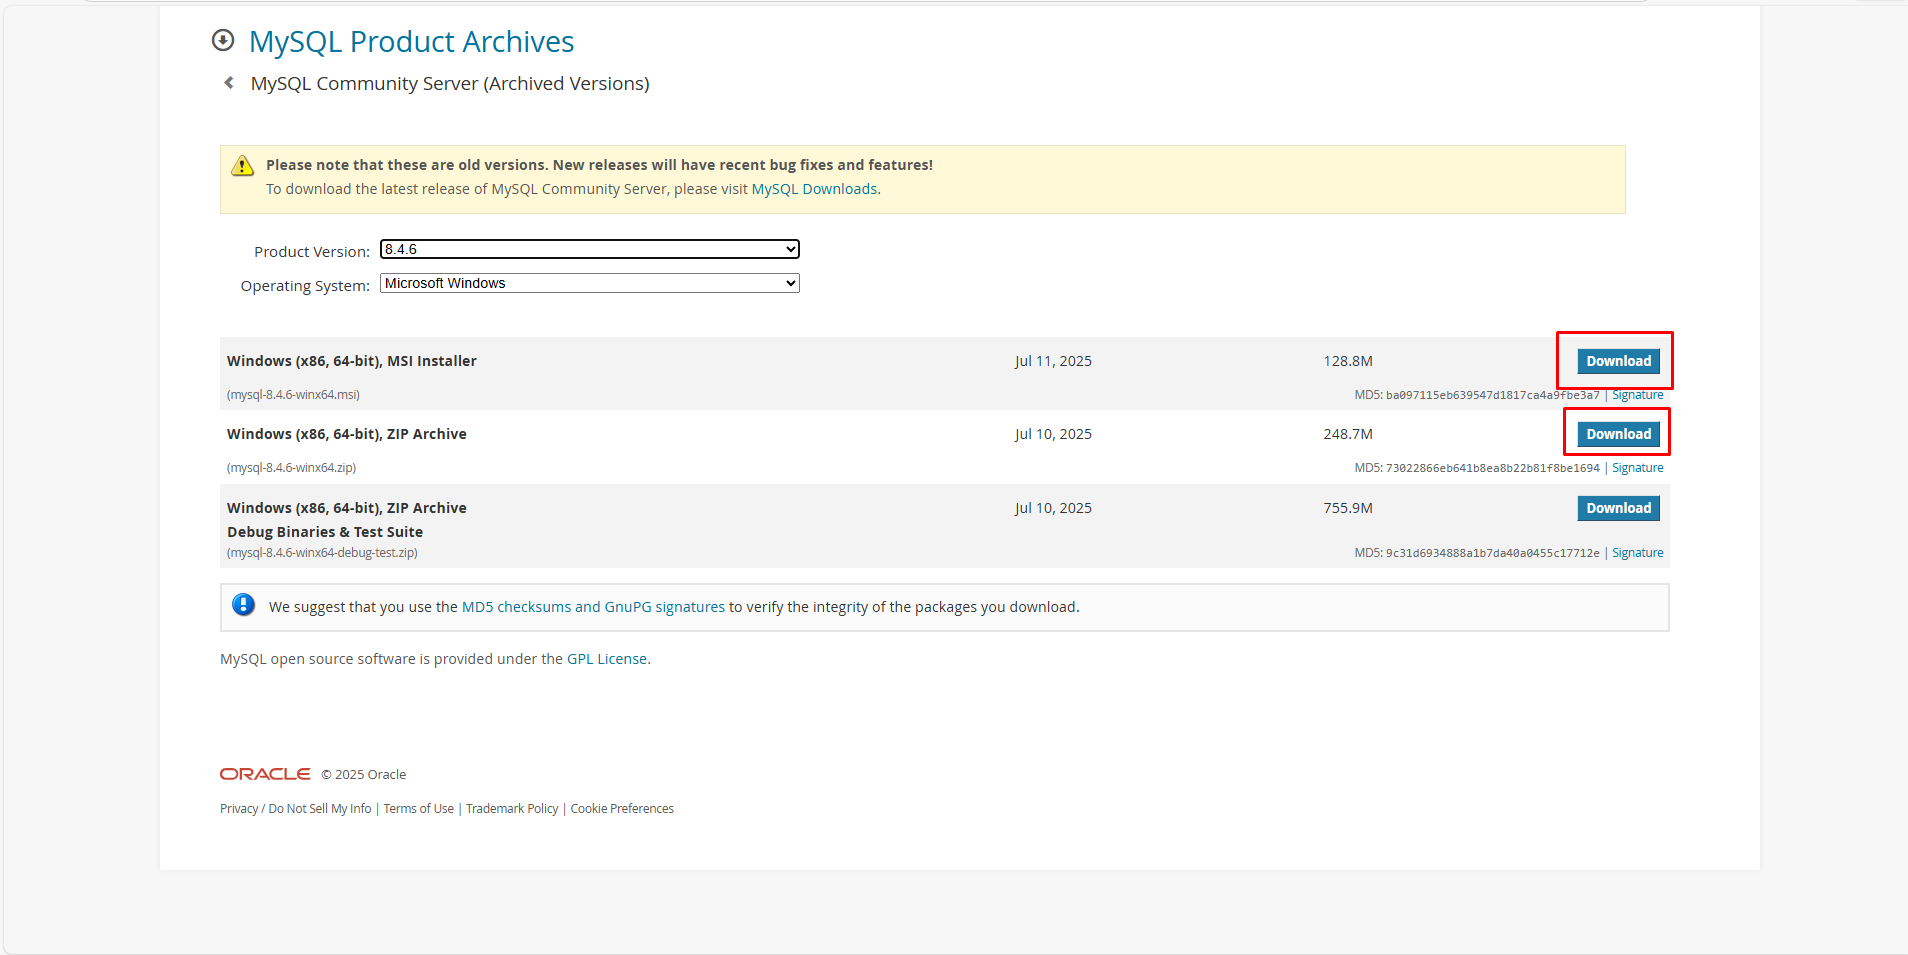
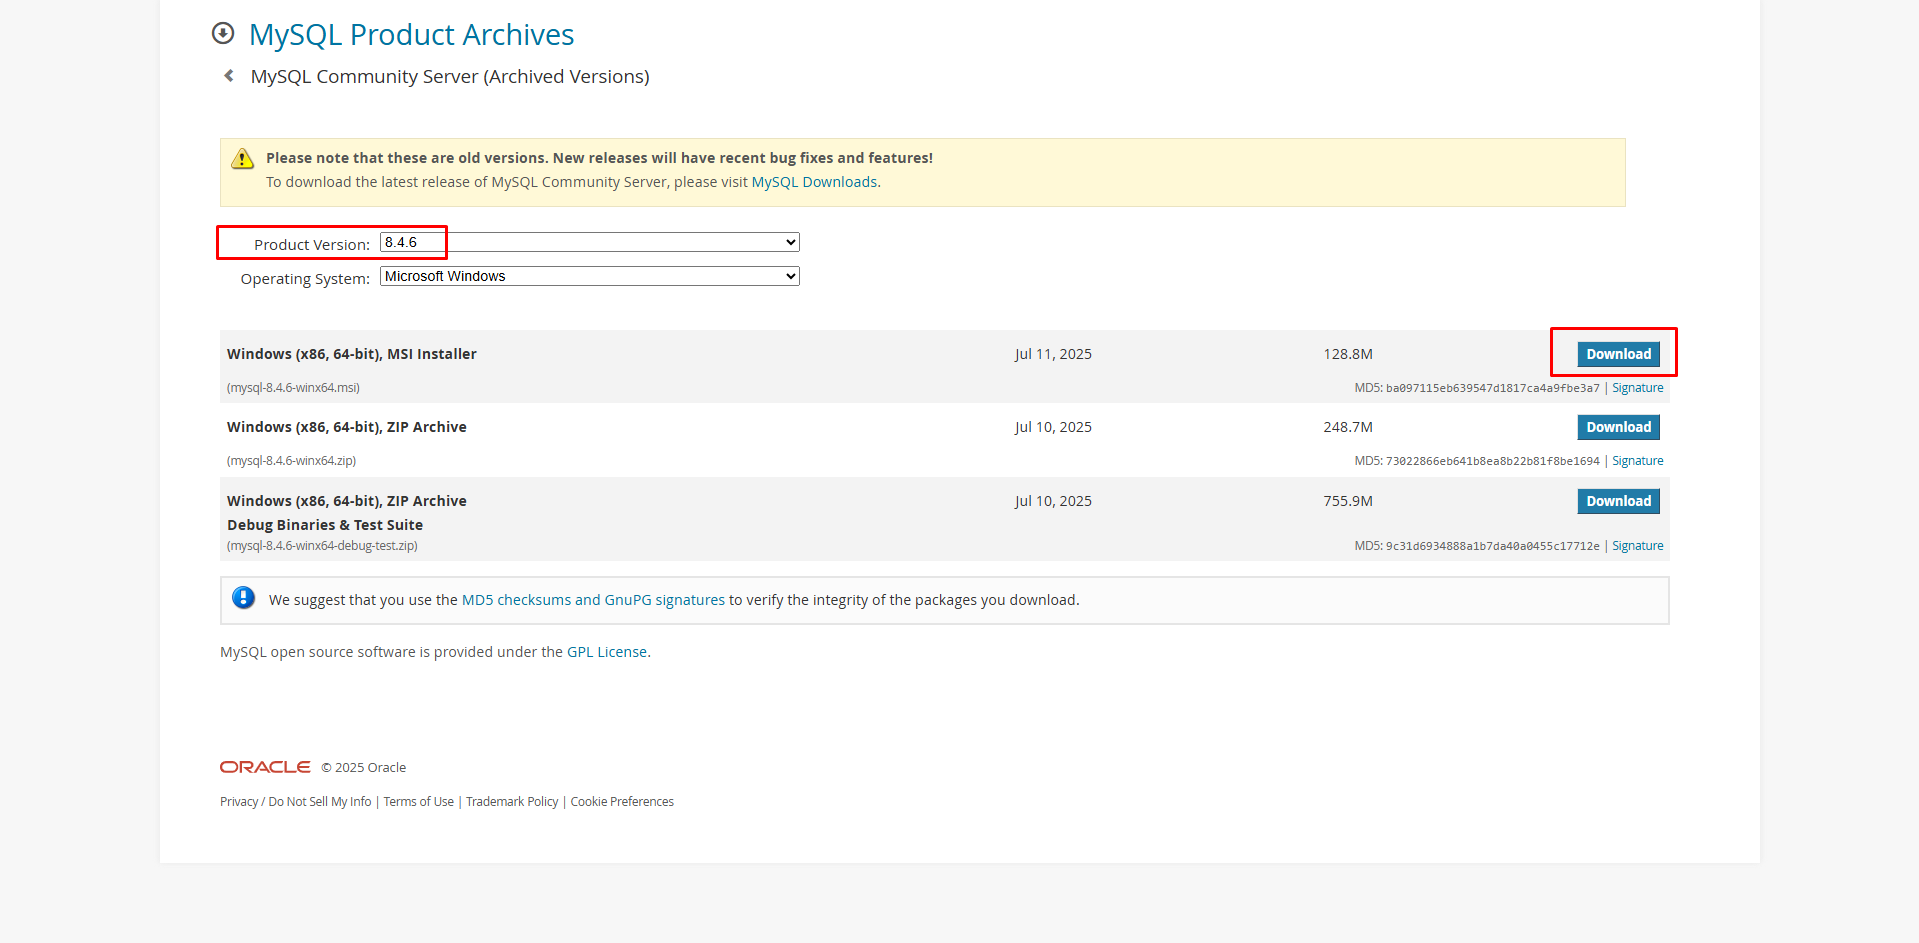
update MySQL installation instructions to remove outdated download options

diff --git a/docs/ja/install_mysql.md b/docs/ja/install_mysql.md
@@ -27,8 +27,7 @@ net stop mysql80
 ![MySQLインストール画面](img/xampp/mysql18.png)
 
 - 以下のいずれかをダウンロードします。
-	- MSI Installer (推奨)
-	- ZIP Archive (上級者向け)
+	- MSI Installer
 ![MySQLインストール画面](img/xampp/mysql19.png)
 
 - ダウンロードしたMSIファイルを実行し、ウィザードに従ってインストールします。

diff --git a/docs/install_mysql.md b/docs/install_mysql.md
@@ -27,8 +27,7 @@ net stop mysql80
 ![Select MySQL 8.4 version](img/xampp/mysql18.png)
 
 - Download one of the following packages:
-	- MSI Installer (recommended)
-	- ZIP Archive (advanced)
+	- MSI Installer
 ![Select download package](img/xampp/mysql19.png)
 
 - Run the MSI file and follow the wizard.
